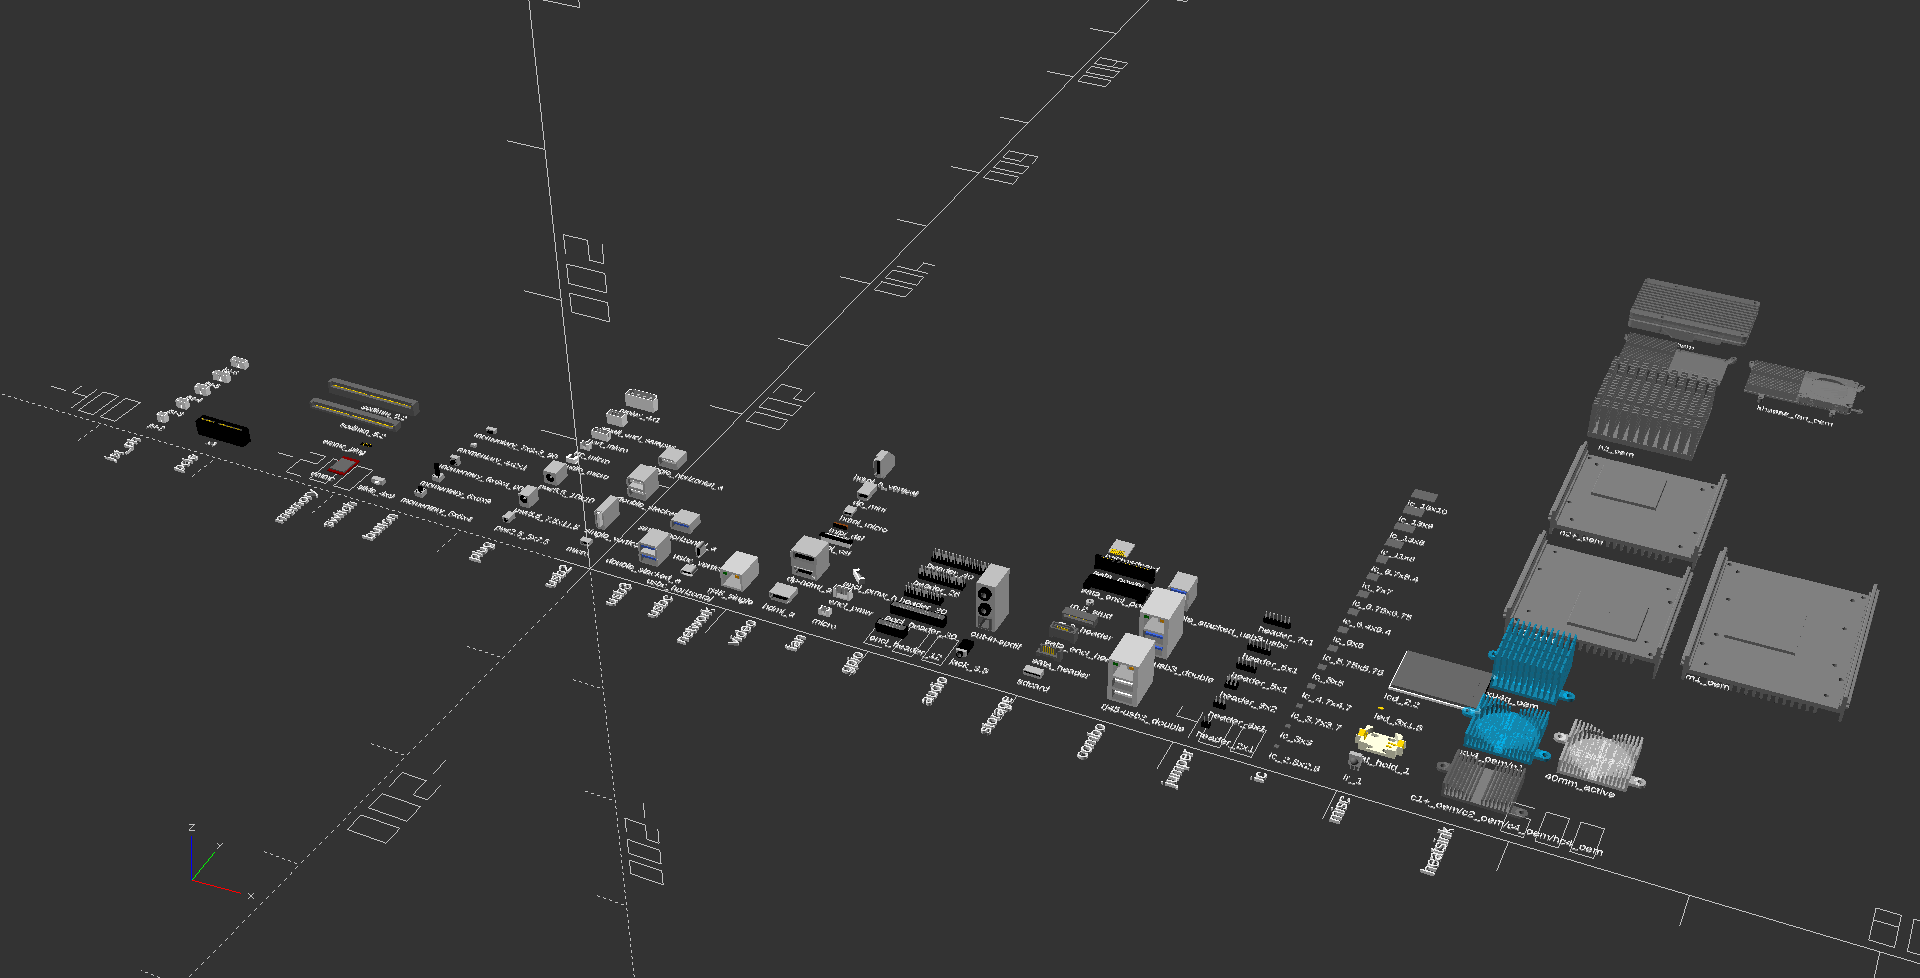
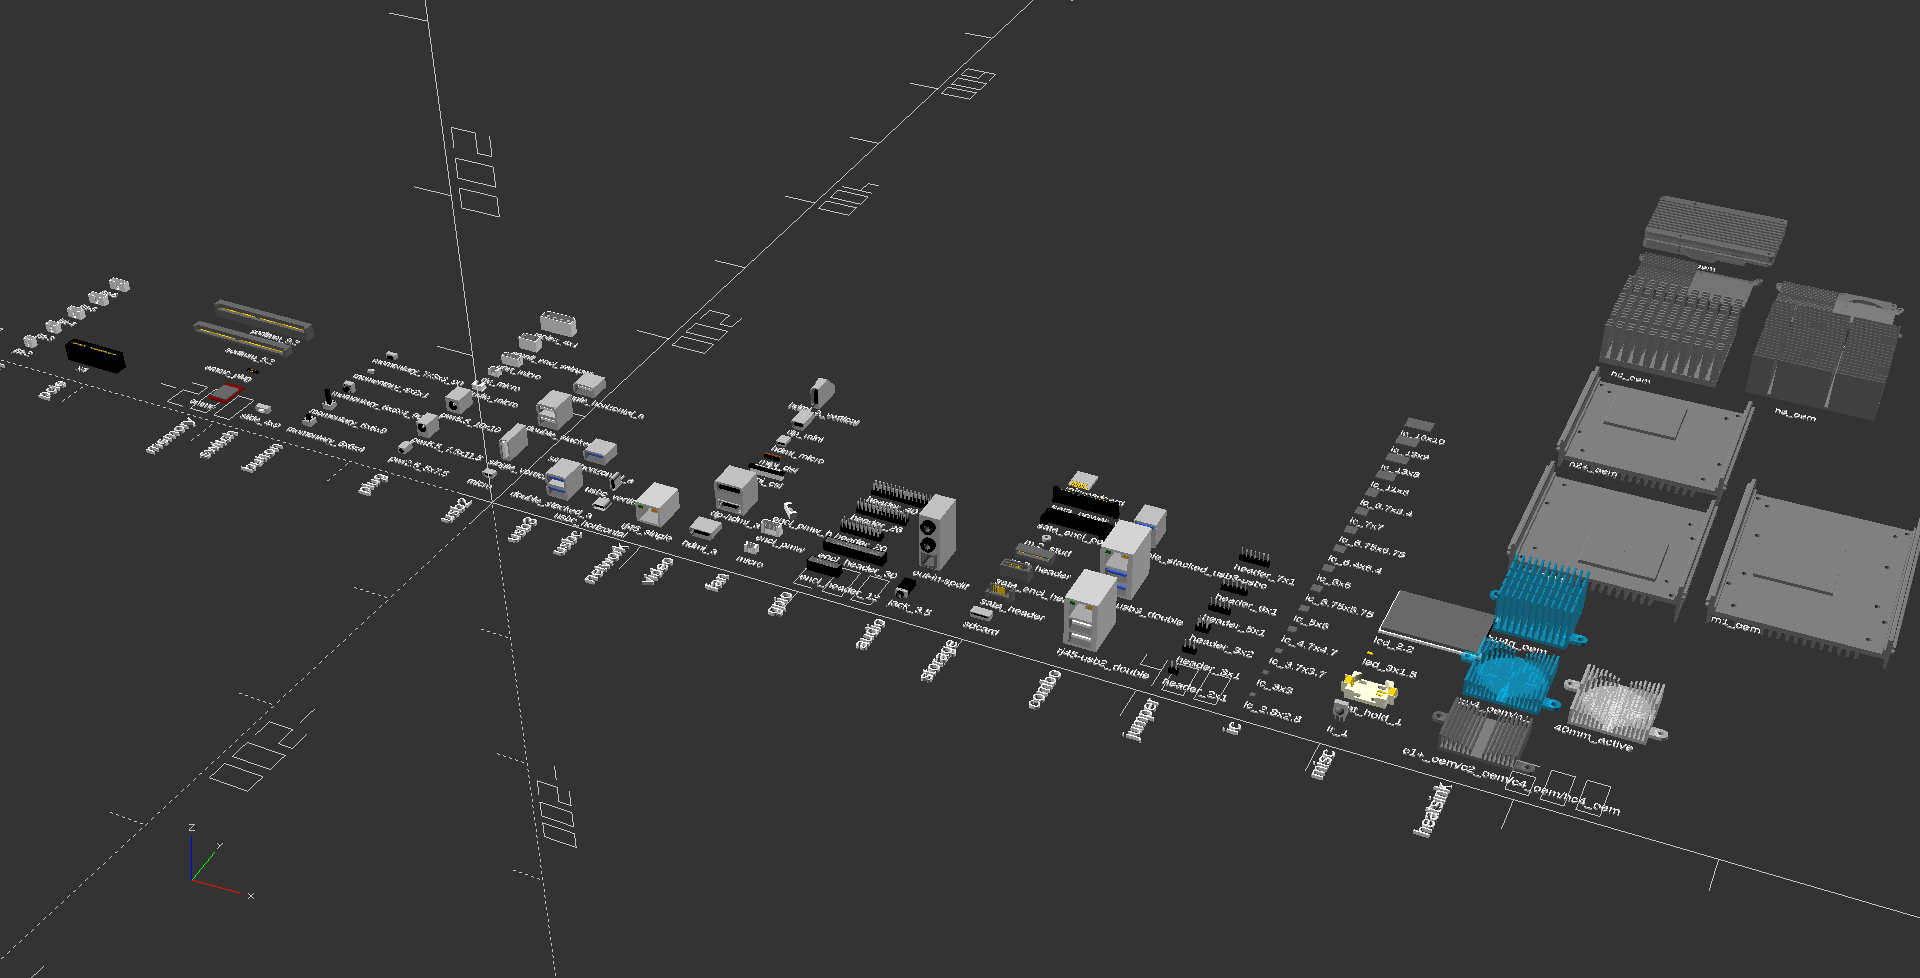
added h3 model with h3_oem heatsink and emmc position adjustments, updated readme.md, sbc_test.scad, sbc.png, sbc_test_component.scad and sbc_test_component.png.

Changed region(s): [[0.0, 0.184, 1.0, 0.8896], [0.5625, 0.0613, 0.5938, 0.092], [0.5, 0.1534, 0.5312, 0.184]]

diff --git a/README.md b/README.md
@@ -96,7 +96,7 @@ RED = unverified, not usable due to incomplete component data.
 
 ### Hardkernel Odroid: 17
 
-c1+,c2,c4,xu4,xu4q,mc1,hc1,hc4,m1,n1,n2,n2+,h2(h2+,h3,h3+) - GREEN, verified.
+c1+, c2, c4, xu4, xu4q, mc1, hc1, hc4, m1, n1, n2, n2+, h2(h2+), h3(h3+) - GREEN, verified.
 
 show2 - ORANGE, unverified, unknown status.
 
